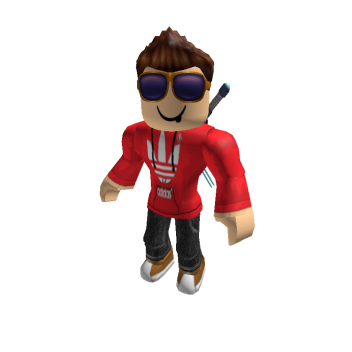
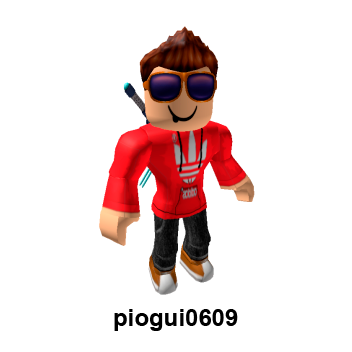
mudei o avatares.html pros nossos nomes não atrapalharem

Changed region(s): [[0.2812, 0.0625, 0.75, 0.8438], [0.3125, 0.875, 0.6875, 0.9375]]

diff --git a/avatares.html b/avatares.html
@@ -23,9 +23,7 @@
 
     <main class="tam_p">
         <h1>Avatares</h1><br>
-        <h4 class="avatar" style="float: left;">piogui0609</h4>
-        <h4>scjg</h4>
-        <a class="avatpic" href="https://www.roblox.com/users/71128233/profile"><img src="imagens/piogui0609.png" style="transform:scaleX(-1)"></a>
+        <a class="avatpic" href="https://www.roblox.com/users/71128233/profile"><img src="imagens/piogui0609.png"></a>
         <a class="avatpic" href="https://www.roblox.com/users/47941929/profile"><img src="imagens/scjg.png"></a>
         <p>Esses são os avatares dos criadores do site</p>
 

diff --git a/estilos.css b/estilos.css
@@ -66,13 +66,6 @@ footer{
   padding-bottom: 2px;
 }
 
-.avatar{
-  margin: 0% 15%;
-  position: relative;
-  left: 112px;
-  top: 22px;
-}
-
 .catalogo{
   width: 600px;
 }
@@ -138,7 +131,7 @@ p{
   line-height: 160%;
   font-family: verdana;
 }
-.tam_p p{
+.avat p{
   width: 50em;
   margin-left: auto;
   margin-right: auto;

diff --git a/jogos.html b/jogos.html
@@ -87,7 +87,7 @@
                     <td colspan="2"><em>Obs: Se você clicar na foto, será redirecionado ao jogo </em>😉</td>
                 </tr>
             </tfoot>
-            
+
         </table>
 
     </main>
